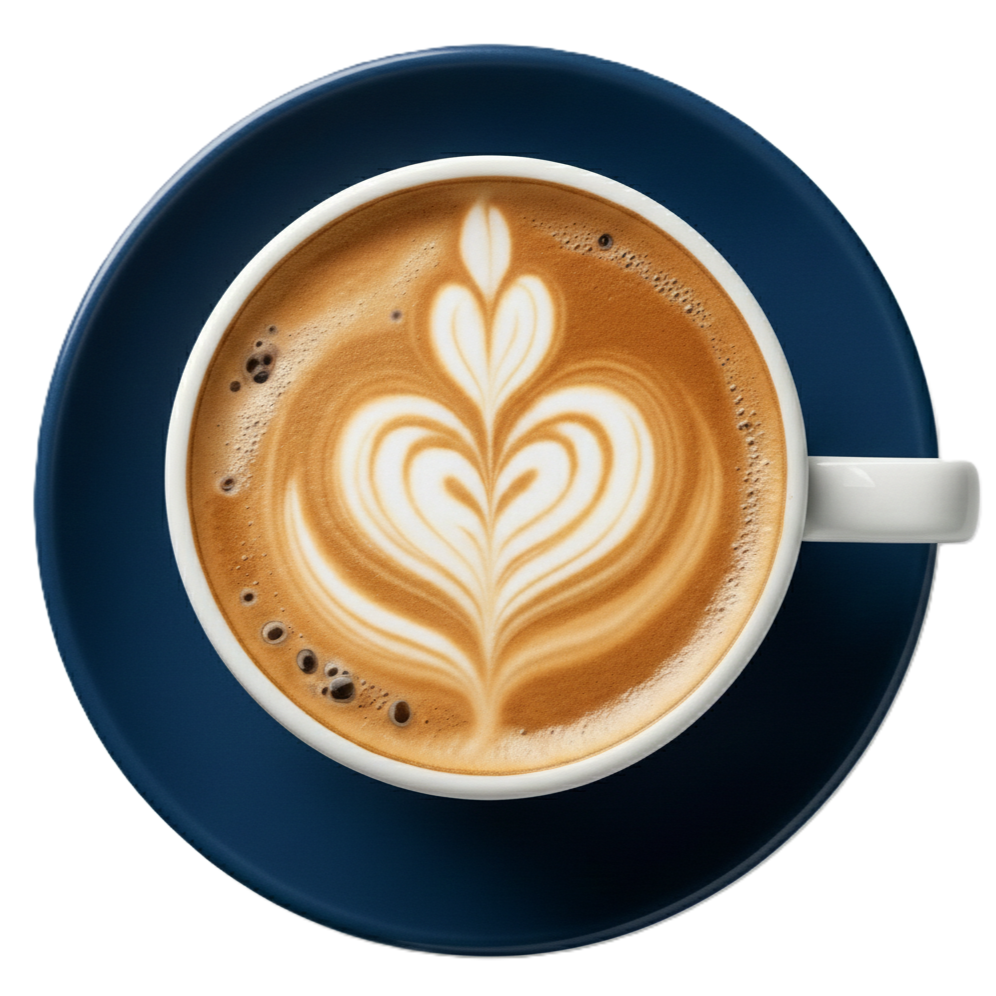
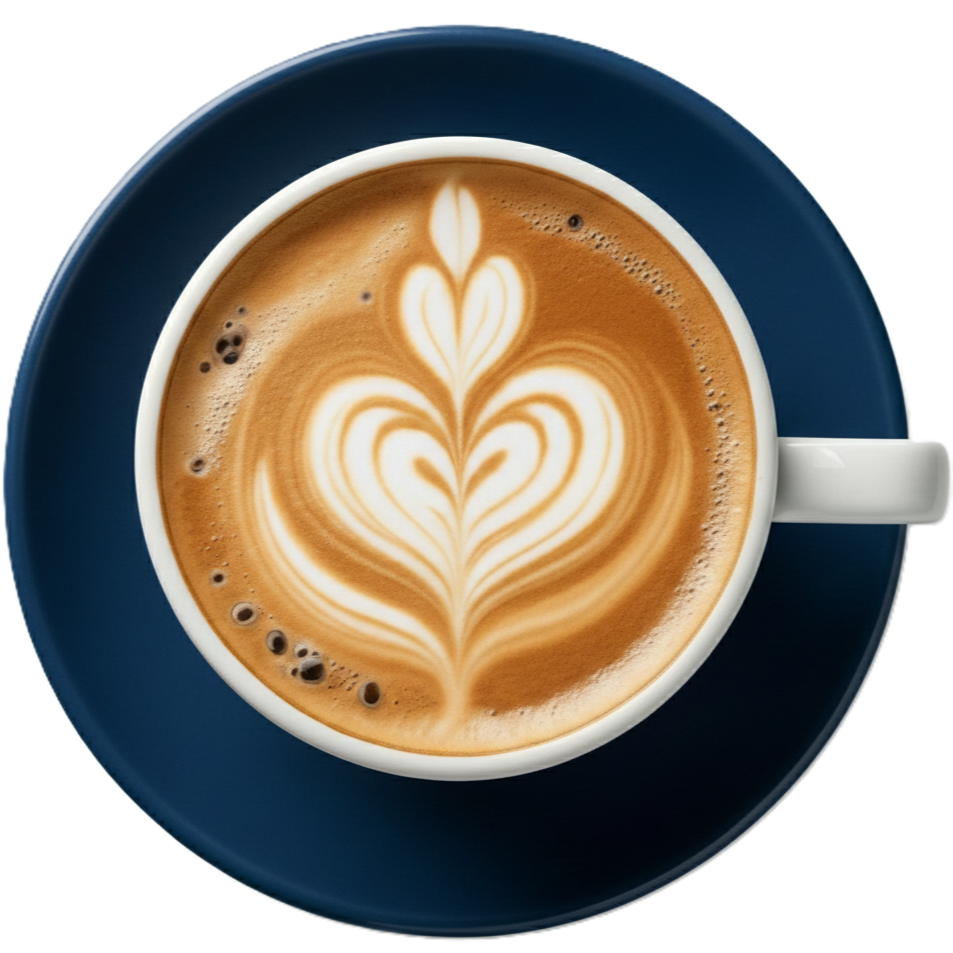
Diseño ux ui

diff --git a/css/main.css b/css/main.css
@@ -114,7 +114,7 @@ main {
 .section-title-container h2 {
   font-size: 3rem;
   color: var(--hgColor);
-  font-weight: 37.5rem;
+  font-weight: 35rem;
   margin-bottom: 1.5rem;
   line-height: 1.2;
 }
@@ -126,6 +126,9 @@ main {
 .classics-section {
   padding-bottom: 0;
   /* Pegado al footer */
+  max-width: 1200px;
+  padding-top: 60px;
+  margin: 0 auto;
 }
 
 .classic-card {
@@ -136,34 +139,41 @@ main {
   transition: transform 0.3s ease;
   margin-bottom: 0;
   box-shadow: 0 -10px 25px rgba(1, 28, 64, 0.3);
+  position: relative;
 }
 
 .classic-card:hover {
   transform: translateY(-2px);
+  box-shadow: 0 -15px 50px rgba(1, 28, 64, 0.25);
 }
 
 .classic-arch-img {
   background-color:var(--color-light);
   border-radius: 13rem 13rem 0 0;
   /* Arco interno */
-  overflow: hidden;
-  height: 300px;
+  height: 160px;
   display: flex;
   justify-content: center;
   align-items: center;
   padding-bottom: 1rem;
+  position: relative;
+  
 }
 
 .classic-arch-img img {
-  width: 90%;
-  height: 90%;
+  width: 66%;
+  max-height: 200px;
+  height: auto;
   object-fit: contain;
+  position: absolute;
+  bottom: 33px;
+  filter: drop-shadow(0 20px 30px rgba(0,0,0,0.3));
 }
 
 .classic-content {
   padding: 1.5rem;
   background: linear-gradient(90deg, var(--primaryColor) 0%, var(--bgColor) 100%);
-  border-radius: 3rem 3rem 0rem 0rem;
+  border-radius: 5rem 5rem 0rem 0rem;
 }
 
 .product-name {

diff --git a/index.html b/index.html
@@ -97,7 +97,7 @@
                 <div class="classic-content text-center">
                   <h4 class="product-name">Café Espresso</h4>
                   <p class="product-description">Intensidad pura y aroma penetrante en cada gota. El despertar perfecto
-                    para tu jornada creativa.</p>
+                    para tu jornada.</p>
                   <button class="btn btn-details w-100"
                     onclick="window.location.href='./html/productos.html#coffeTitle'">Disfrútame</button>
                 </div>
@@ -127,7 +127,7 @@
                 <div class="classic-content text-center">
                   <h4 class="product-name">Repostería Horneada</h4>
                   <p class="product-description">Texturas crujientes y sabores dulces recién salidos del horno. El
-                    complemento ideal de tu café.</p>
+                    complemento ideal.</p>
                   <button class="btn btn-details w-100"
                     onclick="window.location.href='./html/productos.html#reposteriaTitle'">Pruebame</button>
                 </div>
